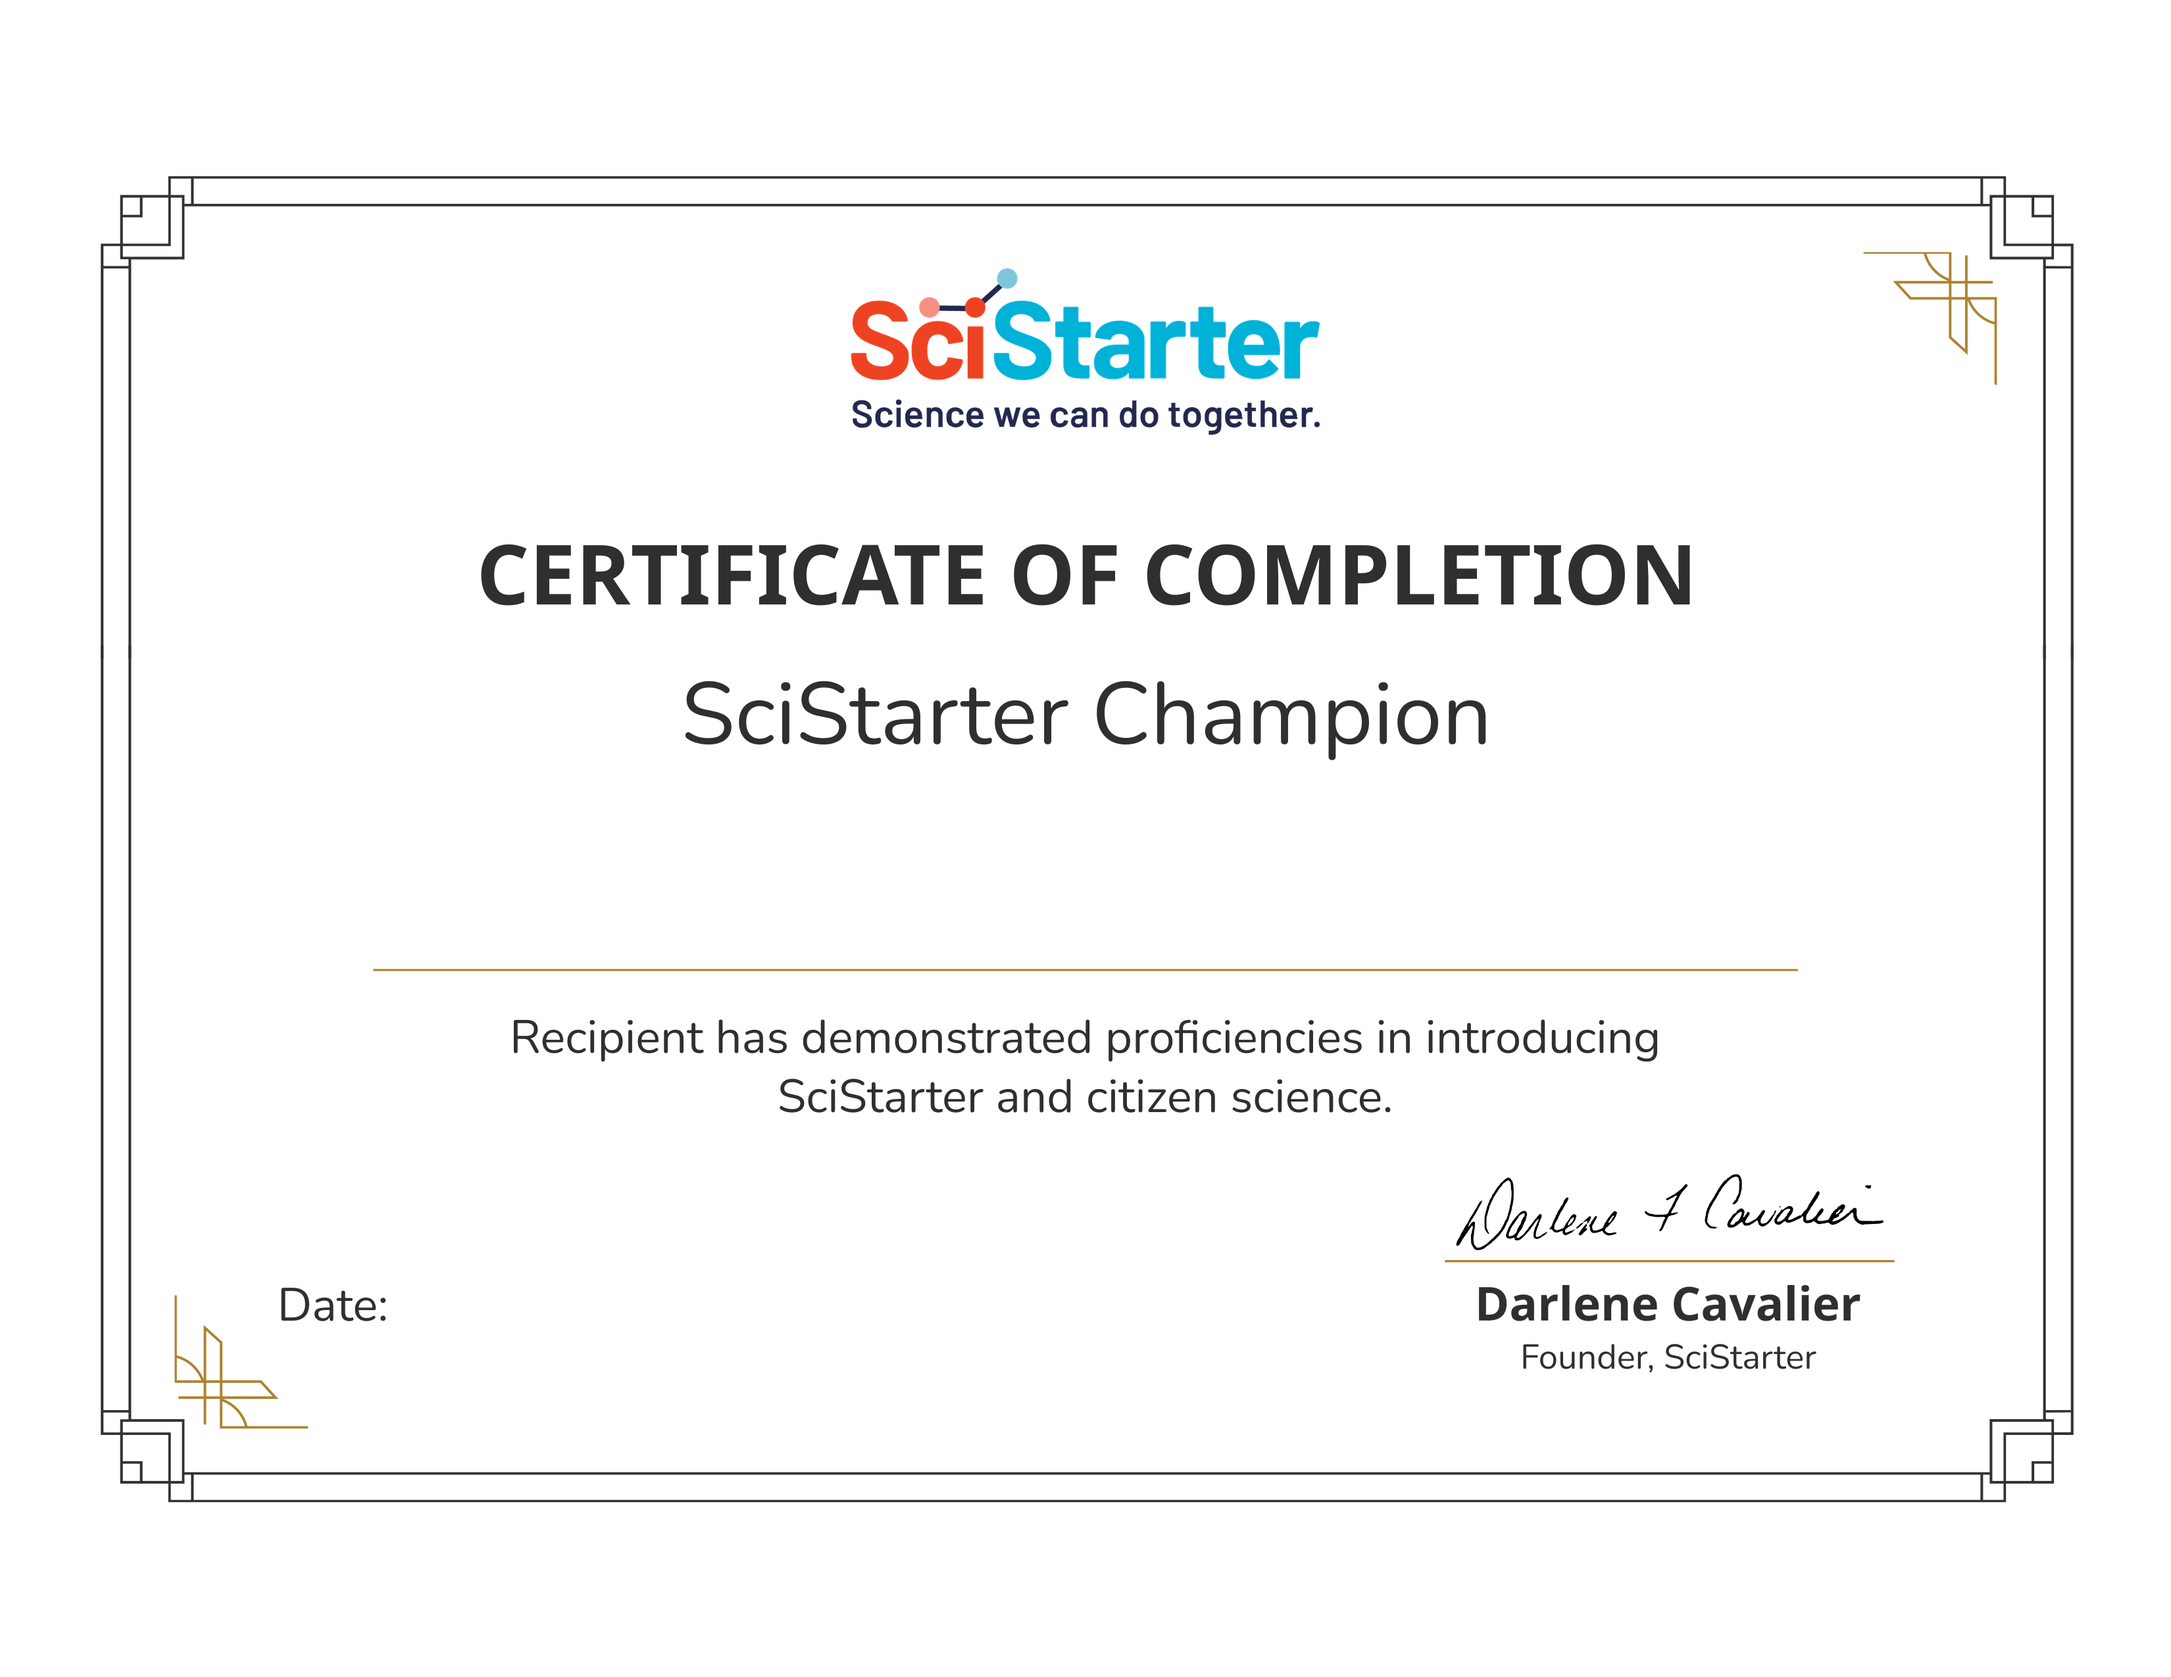
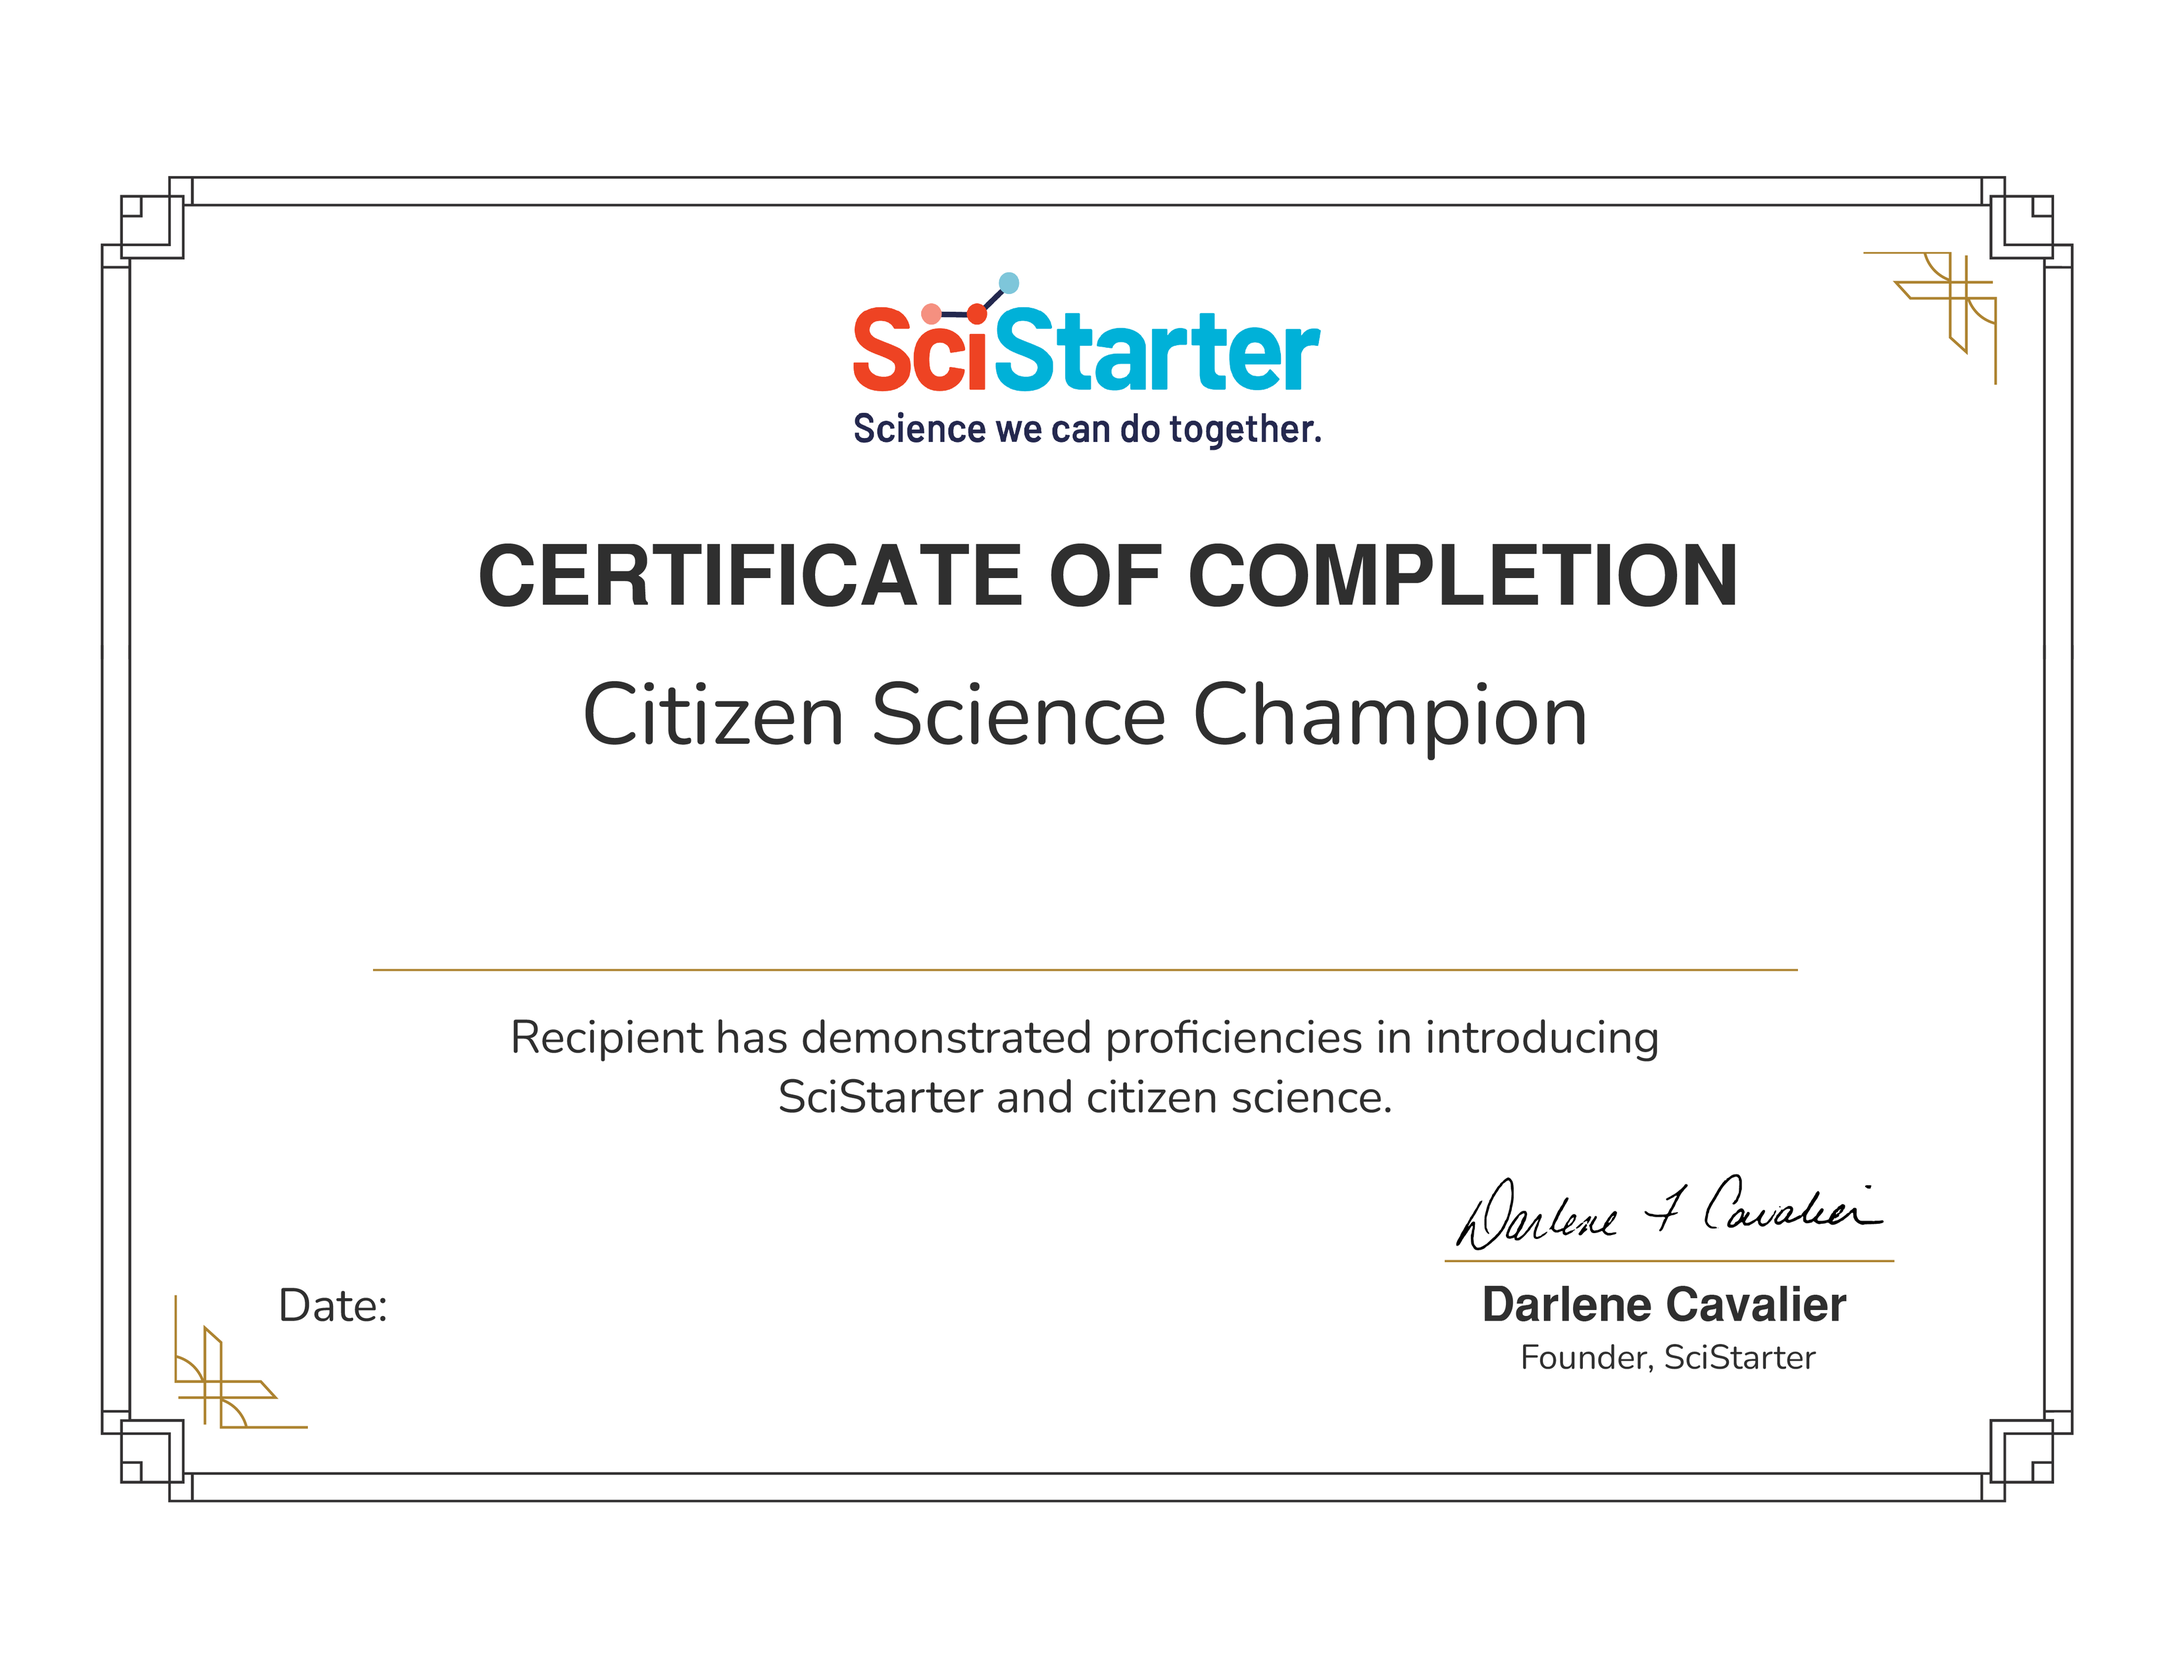
certificate handling

diff --git a/frontend/src/certificates.rs b/frontend/src/certificates.rs
@@ -6,6 +6,10 @@
 //! so) the watermarked background to use. Generation is config-driven, so a new
 //! certificate type is one entry here plus its background asset — no per-mode
 //! branching scattered across functions, and no `__watermarked` twin mode.
+//!
+//! Requires oxidize-pdf 4.x or newer: 2.0's `Image::from_png_data` stored the
+//! PNG container itself as the XObject stream while declaring `/FlateDecode`,
+//! so every background failed to decode and certificates came out blank.
 
 use anyhow::Result;
 use common::message::user::{BasicInfo, CertificateGetRequest, CertificateGetResponse};
@@ -243,7 +247,7 @@ fn config_for_mode(mode: &str) -> CertificateMode {
                 show_issued: true,
                 ..Default::default()
             },
-            title: "SciStarter Champion",
+            title: "Citizen Science Champion",
             projects: Projects::None,
             shareable: true,
             watermark_background: Some("certificates/certificate_bkg_champion_watermarked.png"),
@@ -308,7 +312,7 @@ fn generate_certificate(
 
     // Draw name (centered at name_x)
     let name_font = font_for_name(layout.name_font);
-    let name_width = measure_text(name, name_font.clone(), layout.name_size);
+    let name_width = measure_text(name, &name_font, layout.name_size);
     page.text()
         .set_font(name_font, layout.name_size)
         .set_fill_color(layout.color)
@@ -328,8 +332,7 @@ fn generate_certificate(
                         .write(issued_str)?;
                 }
                 Align::Center => {
-                    let issued_width =
-                        measure_text(issued_str, issued_font.clone(), layout.issued_size);
+                    let issued_width = measure_text(issued_str, &issued_font, layout.issued_size);
                     page.text()
                         .set_font(issued_font, layout.issued_size)
                         .set_fill_color(layout.color)
@@ -416,7 +419,7 @@ mod tests {
     #[test]
     fn champion_is_shareable_with_watermark() {
         let c = config_for_mode("champion");
-        assert_eq!(c.title, "SciStarter Champion");
+        assert_eq!(c.title, "Citizen Science Champion");
         assert!(c.shareable);
         assert!(c.watermark_background.is_some());
         assert!(matches!(c.projects, Projects::None));

diff --git a/frontend/src/training/k12.rs b/frontend/src/training/k12.rs
@@ -110,8 +110,7 @@ impl Default for K12Content {
 <p>See video instructions <a href="https://scribehow.com/embed-preview/See_your_iNaturalist_Stats_on_SciStarter__K69rVHEkT3GXzlpK91t5Hg?as=video&size=flexible">here</a>.</p>"#.to_string(),
             affiliation_done_html: "<p>Great work! Your affiliation tracking for iNaturalist is successfully set up.</p>".to_string(),
             education_heading: "Visit the SciStarter Education Hub".to_string(),
-            education_html: r#"<p>Use <a href="/training/k12/education">this link</a> to visit the SciStarter Education Community. There you will find projects arranged by grade level, classroom tools, and more to help you bring real-world science into your learning environment.</p>
-<p>[Optional] Visit the <a href="https://pages.scistarter.org/Education/#resources" target="_blank">Resources tab</a> to learn how to use the <em>SciStarter List</em> tool.</p>"#.to_string(),
+            education_html: r#"<p>Use <a href="/training/k12/education">this link</a> to visit the SciStarter Education Community. There you will find projects arranged by grade level, classroom tools, and more to help you bring real-world science into your learning environment.</p>"#.to_string(),
             education_url: "https://scistarter.org/education".to_string(),
             claim_heading: "Congratulations!".to_string(),
             claim_html: r#"<p>🎉 Congratulations on completing the Citizen Science for K-12 Educators Training. 🎉

diff --git a/frontend/src/training/libraries.rs b/frontend/src/training/libraries.rs
@@ -86,7 +86,7 @@ Your <strong>badge</strong> is now available on your <a href="/dashboard/profile
 <p>This handbook is packed with tips, talking points, free templates, suggested activities, and other resources to help you introduce citizen science and SciStarter to others with confidence!</p>
 <p><strong>What to Do Next:</strong><br>
 ✅ <strong>Join the Library Network Facebook Group</strong> to connect with others and get inspired: <a href="https://www.facebook.com/groups/788879025402547" target="_blank">Library Network group</a><br>
-✅ <strong>Reach out to a <a href="/training/champion">SciStarter Champion</a></strong> for support planning and facilitating programs.<br>
+✅ <strong>Reach out to a <a href="/training/champion">Citizen Science Champion</a></strong> for support planning and facilitating programs.<br>
 ✅ <strong><a href="/add-event">Add your events</a></strong> to the SciStarter Event Calendar to promote and track your impact.<br>
 ✅ These <strong>resources</strong> and more can be found on <a href="https://scistarter.org/library">SciStarter.org/library</a>.<br>
 ✅ Look for more resources and updates in our monthly newsletter!</p>"#.to_string(),
